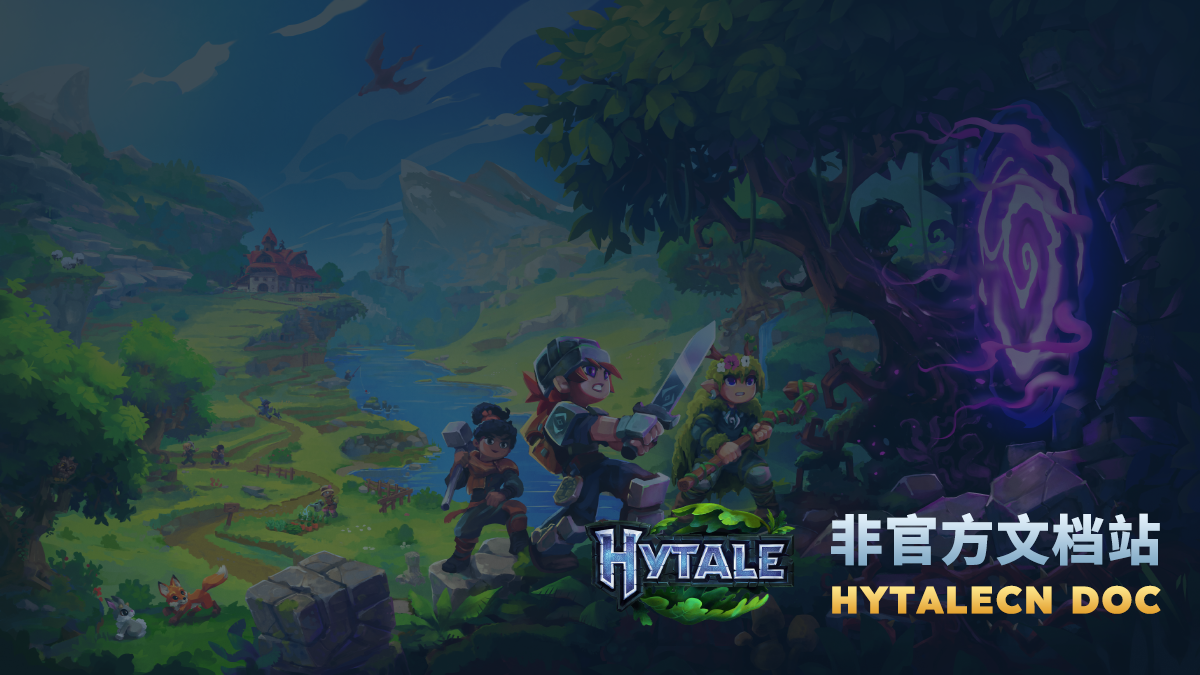
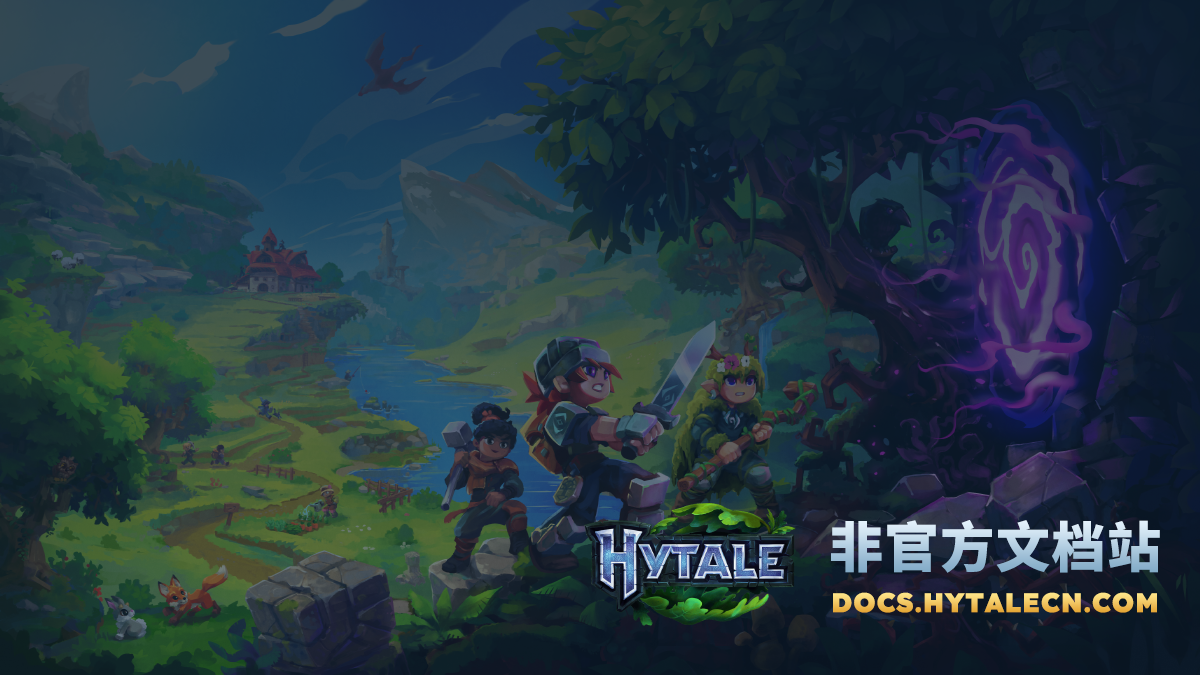
追加创作者代码图片；更新了文档站社交卡片纹理。

Changed region(s): [[0.6783, 0.7467, 0.9867, 0.9333]]

diff --git a/docs/home/faq.md b/docs/home/faq.md
@@ -24,6 +24,8 @@ sidebar_position: 2
 
    你可以在购买游戏时，在支付界面填入 `HytaleCN` 来表示对我们的支持。这可以让我们获得你实际支付金额 5% 的佣金。非常感谢你的支持！
 
+   ![](/static/img/creator_code_location.png)
+
    :::
 
 3. **下载游戏。**[点击此处](/official-docs/player-support/getting-started/how-to-purchase-hytale.md) 可查看具体操作步骤。

diff --git a/docs/home/index.md b/docs/home/index.md
@@ -6,4 +6,6 @@ sidebar_position: 1
 
 # 欢迎
 
+![](/static/img/hytalecn-docs-social-card.png)
+
 欢迎来到 HytaleCN 文档站！本站致力于收录各类 Hytale 文献。你可以前往我们的 [GitHub](https://github.com/HytaleCN/Docs) 仓库提交贡献。
